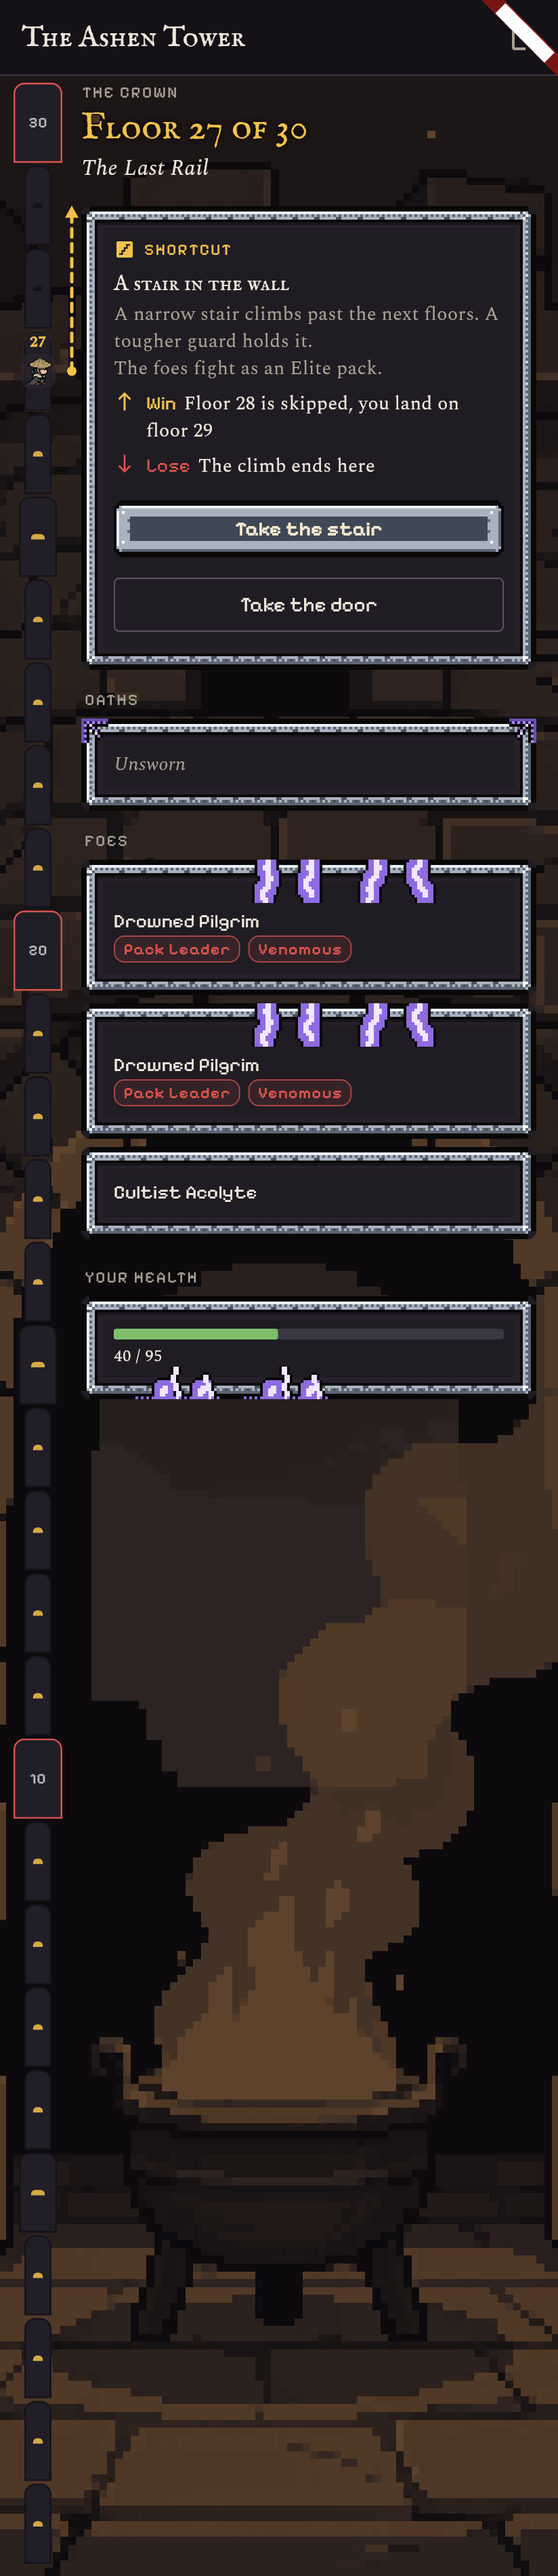
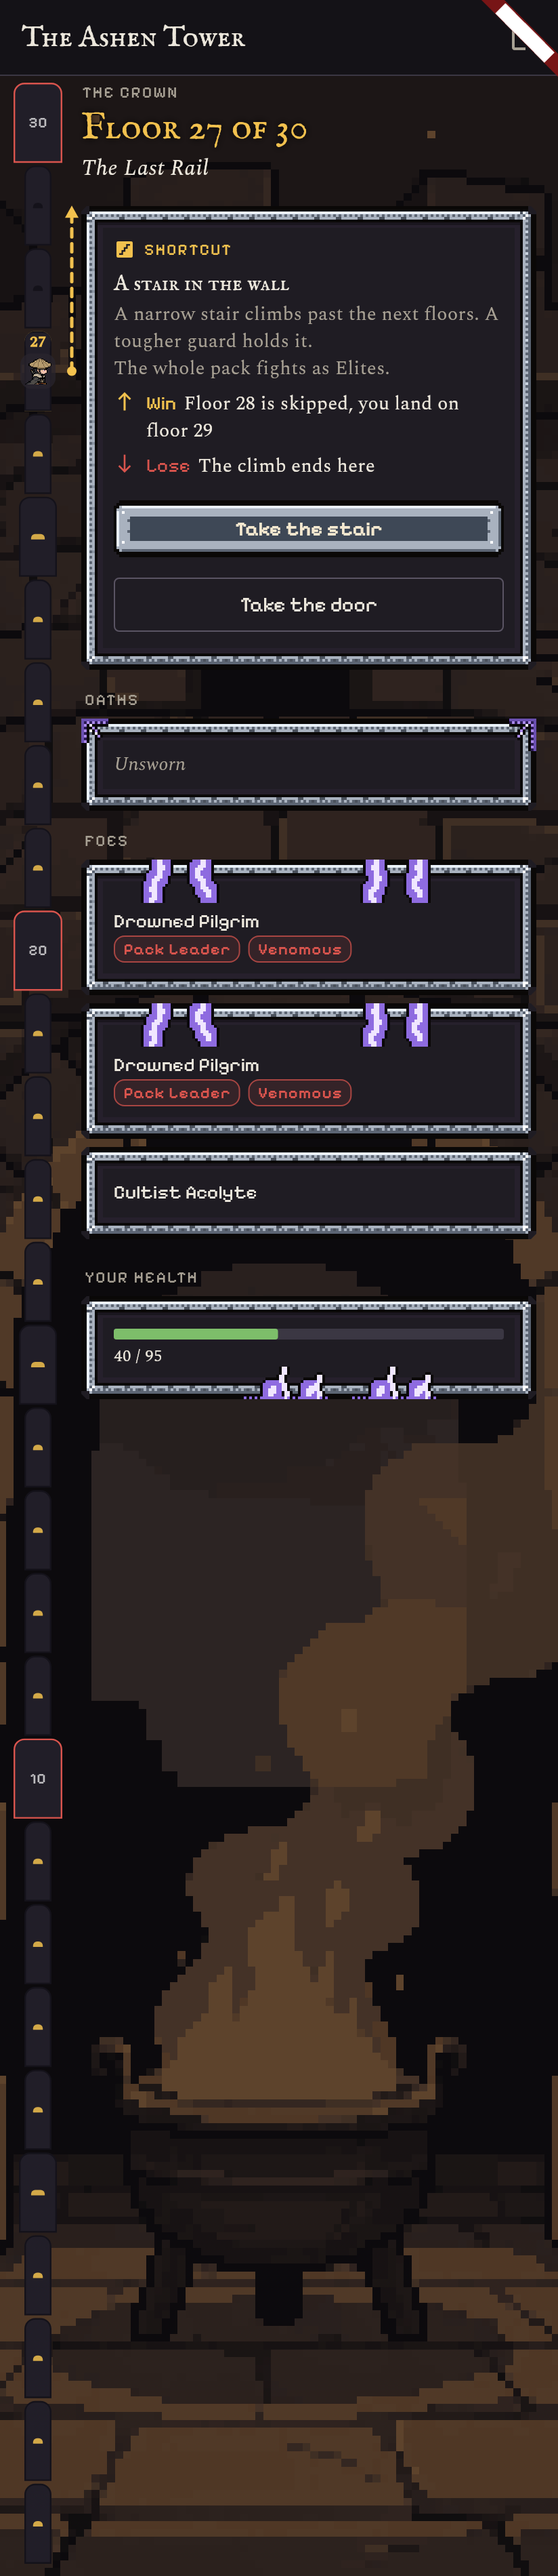
Shortcut pack sheet with Narrative's line (local string for the picture)
Claude-Session: https://claude.ai/code/session_019ETFw2Y7wpHSXWG5mmACty

diff --git a/lib/l10n/app_strings.dart b/lib/l10n/app_strings.dart
@@ -1528,9 +1528,9 @@ const Map<String, Map<AppLanguage, String>> _strings = {
     AppLanguage.fr: 'Un Élite prend la place du combat.',
   },
   'tower_event_shortcut_pack': {
-    // Placeholder wording, for Narrative to word.
-    AppLanguage.en: 'The foes fight as an Elite pack.',
-    AppLanguage.fr: 'Les adversaires combattent en meute d’élite.',
+    // Narrative's line, as the user may choose it.
+    AppLanguage.en: 'The whole pack fights as Elites.',
+    AppLanguage.fr: 'Toute la meute combat en Élites.',
   },
   'tower_event_shortcut_win': {
     AppLanguage.en: 'Win',
